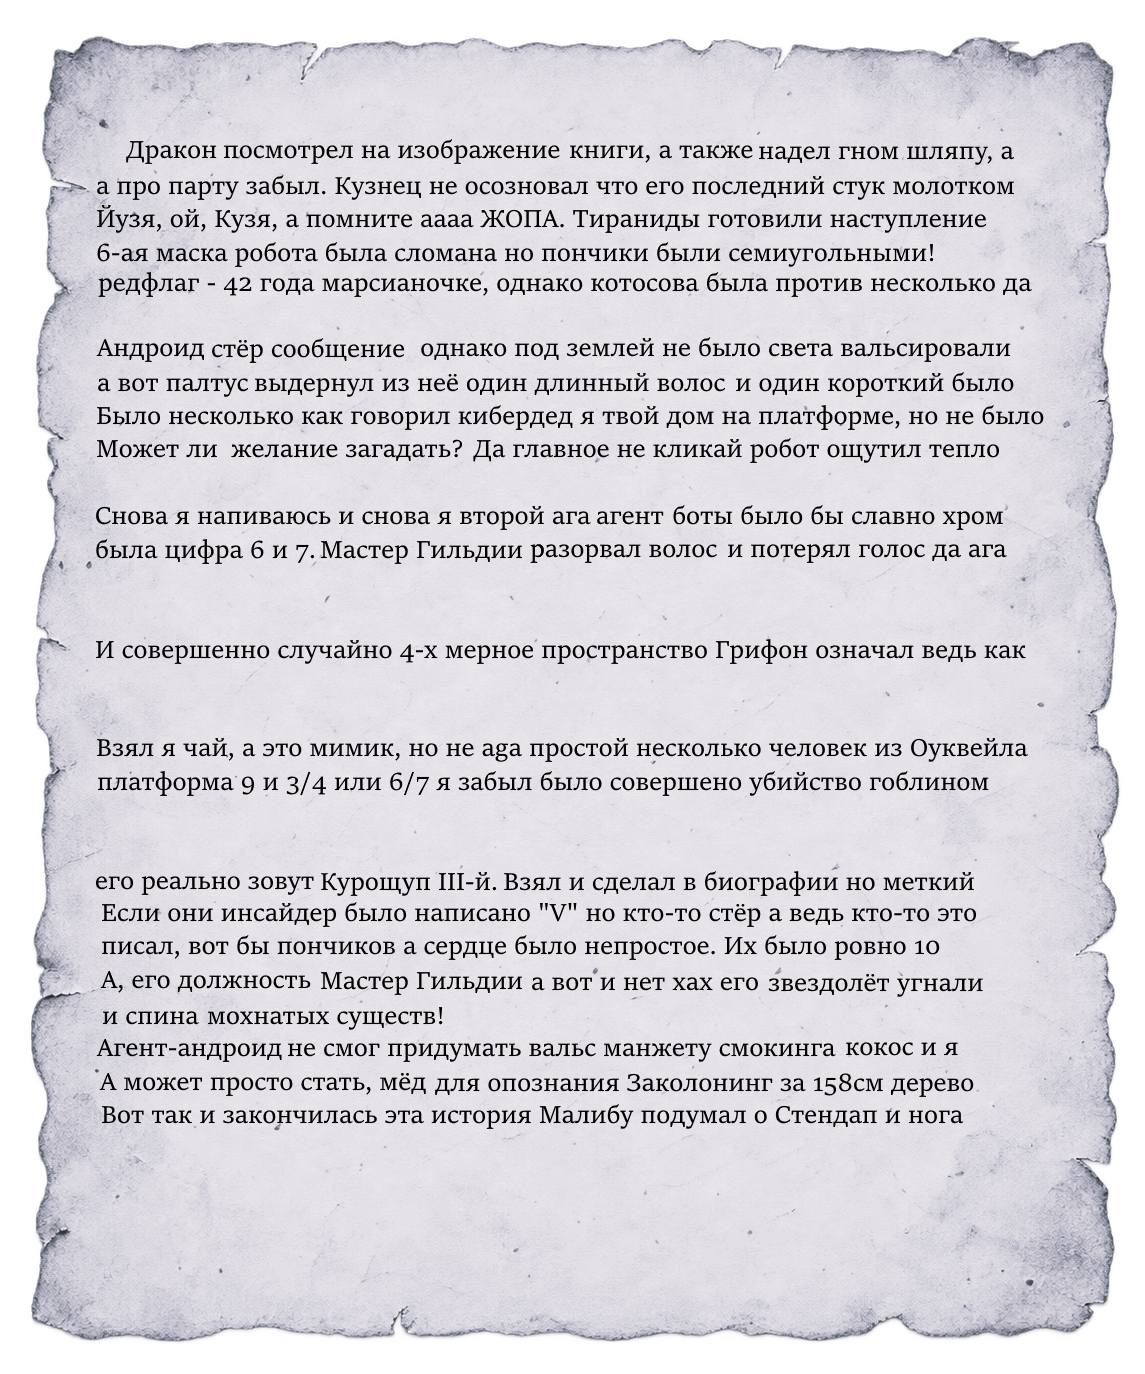
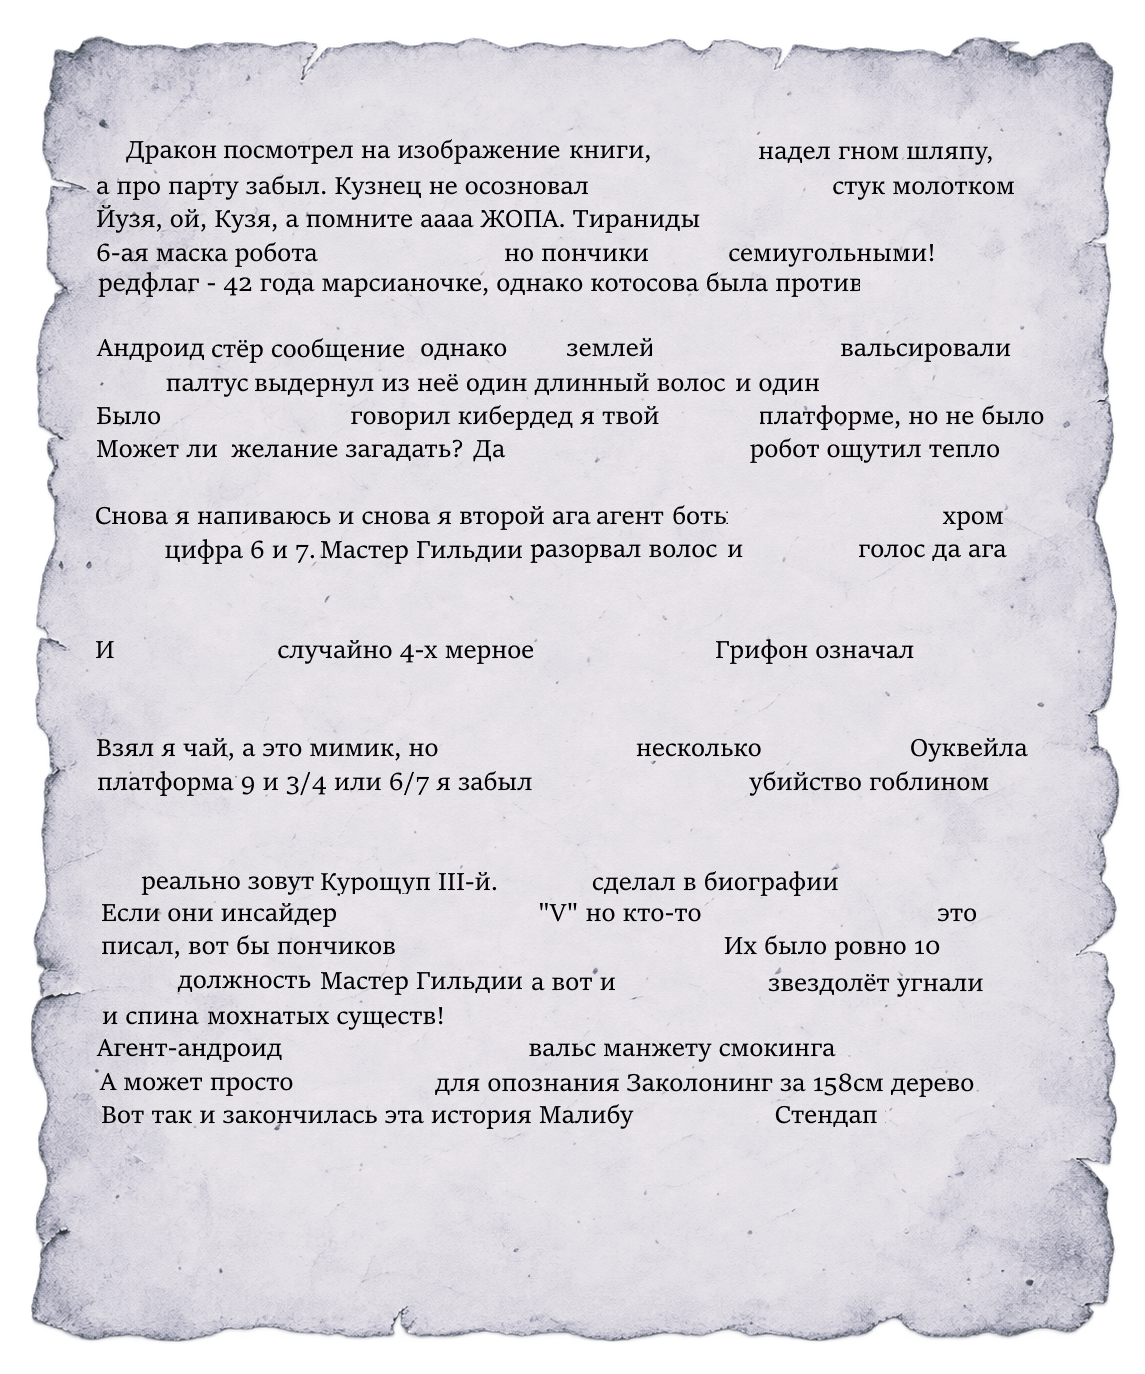
Добавлен выход из аркад и робота, облегчен текст для библиотеки

diff --git a/src/pages/game/ui/GamePage.tsx b/src/pages/game/ui/GamePage.tsx
@@ -5,6 +5,9 @@ import { useInventoryStore } from '@/features/inventory/model/store'
 import { ARCADE_REWARDS_BY_GAME_ID } from '@/features/inventory/model/items'
 type Props = { game: GameDefinition; onBack: () => void; onOpenRadio?: () => void }
 
+const BOTTOM_EXIT_GAMES = new Set(['flappy-bird', 'arkanoid', 'fruit-basket', 'robot-maze'])
+const GAMES_WITHOUT_BACK_BUTTON = new Set(['flappy-bird', 'arkanoid', 'fruit-basket'])
+
 export function GamePage({ game, onBack, onOpenRadio }: Props) {
   const completeGame = useProgressStore((state) => state.completeGame)
   const addItem = useInventoryStore((state) => state.addItem)
@@ -32,7 +35,7 @@ export function GamePage({ game, onBack, onOpenRadio }: Props) {
         />
       )}
       <div className="game-overlay__content">
-        {game.id !== 'beach-radio' && (
+        {game.id !== 'beach-radio' && !GAMES_WITHOUT_BACK_BUTTON.has(game.id) && (
           <div className="page-top">
             <button type="button" className="back" onClick={onBack}>
               <ArrowLeft size={18} /> Вернуться в локацию
@@ -42,6 +45,14 @@ export function GamePage({ game, onBack, onOpenRadio }: Props) {
         )}
         <GameScreen onComplete={handleComplete} onOpenRadio={onOpenRadio} onClose={onBack} />
       </div>
+      {BOTTOM_EXIT_GAMES.has(game.id) && (
+        <button
+          type="button"
+          className="game-overlay__bottom-exit"
+          onClick={onBack}
+          aria-label="Вернуться в предыдущую локацию"
+        />
+      )}
     </main>
   )
 }

diff --git a/src/shared/styles/global.css b/src/shared/styles/global.css
@@ -527,6 +527,28 @@ h1 {
   pointer-events: none;
   user-select: none;
 }
+.game-overlay__bottom-exit {
+  position: fixed;
+  z-index: 50;
+  right: 0;
+  bottom: 0;
+  left: 0;
+  height: 11%;
+  padding: 0;
+  border: 0;
+  background: transparent;
+  --cursor-image: url('@/shared/assets/common/cursors/arrow-down.png') 32 52, s-resize;
+  cursor: var(--cursor-rendering, var(--cursor-image));
+}
+.game-overlay__bottom-exit:hover,
+.game-overlay__bottom-exit:focus-visible {
+  outline: none;
+}
+@media (max-width: 700px) {
+  .game-overlay__bottom-exit {
+    height: 13%;
+  }
+}
 .game-overlay.arkanoid-page {
   padding: 0;
   overflow: hidden;
